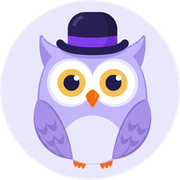
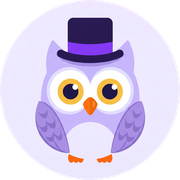
Ollie in the top-hat artwork everywhere, with four moods
- Mascot, navbar mark, favicons, iPhone icon and the link-preview image
  (now og-owl.jpg, so chat apps fetch it fresh) all use the new artwork
- Happy, thinking, hint (wink) and wrong (worried) faces are the artwork
  with its eyes repainted, aligned so the owl doesn't jump between moods
- The cut-out keeps the pale belly, which shares the background colour

Changed region(s): [[0.1667, 0.0556, 0.8611, 0.9444]]

diff --git a/src/app/components/Mascot.tsx b/src/app/components/Mascot.tsx
@@ -12,16 +12,27 @@ interface MascotProps {
   animate?: boolean;
 }
 
-/**
- * Ollie: the artwork in public/owl.webp. Moods show as the bounce or shake
- * in Mascot plus a small flourish beside the owl.
- */
+/** Ollie's face for each mood: the artwork with its eyes repainted. */
+const OWL_FOR: Record<MascotMood, string> = {
+  default: '/owl.webp',
+  correct: '/owl-happy.webp',
+  celebrating: '/owl-happy.webp',
+  thinking: '/owl-thinking.webp',
+  hint: '/owl-hint.webp',
+  wrong: '/owl-wrong.webp',
+};
+
+// Fetch every face up front so changing mood never flickers.
+if (typeof window !== 'undefined') {
+  for (const src of new Set(Object.values(OWL_FOR))) new Image().src = src;
+}
+
 function Owl({ mood }: { mood: MascotMood }) {
   const happy = mood === 'celebrating' || mood === 'correct';
   return (
     <div className="relative w-full h-full">
       <img
-        src="/owl.webp"
+        src={OWL_FOR[mood]}
         alt=""
         aria-hidden
         draggable={false}
@@ -42,11 +53,6 @@ function Owl({ mood }: { mood: MascotMood }) {
           <span className="w-1.5 h-1.5 rounded-full bg-violet-300/70" />
           <span className="w-2 h-2 rounded-full bg-violet-300/80" />
           <span className="w-3 h-3 rounded-full bg-violet-300/90" />
-        </span>
-      )}
-      {mood === 'hint' && (
-        <span className="absolute -right-1 top-[4%] text-[0.85em]" aria-hidden>
-          💡
         </span>
       )}
     </div>

diff --git a/index.html b/index.html
@@ -29,12 +29,12 @@
     <meta property="og:url" content="https://www.thecrypticowl.com/" />
     <!-- Absolute URL and a raster image: WhatsApp, X, LinkedIn and iMessage
          ignore relative paths and SVG. Kept under 300 KB for WhatsApp. -->
-    <meta property="og:image" content="https://www.thecrypticowl.com/og-image.jpg" />
+    <meta property="og:image" content="https://www.thecrypticowl.com/og-owl.jpg" />
     <meta property="og:image:width" content="1200" />
     <meta property="og:image:height" content="630" />
     <meta property="og:image:alt" content="The Cryptic Owl: nine fresh puzzles, every day" />
     <meta name="twitter:card" content="summary_large_image" />
-    <meta name="twitter:image" content="https://www.thecrypticowl.com/og-image.jpg" />
+    <meta name="twitter:image" content="https://www.thecrypticowl.com/og-owl.jpg" />
     <meta name="twitter:title" content="The Cryptic Owl — Daily Puzzles" />
     <meta
       name="twitter:description"
